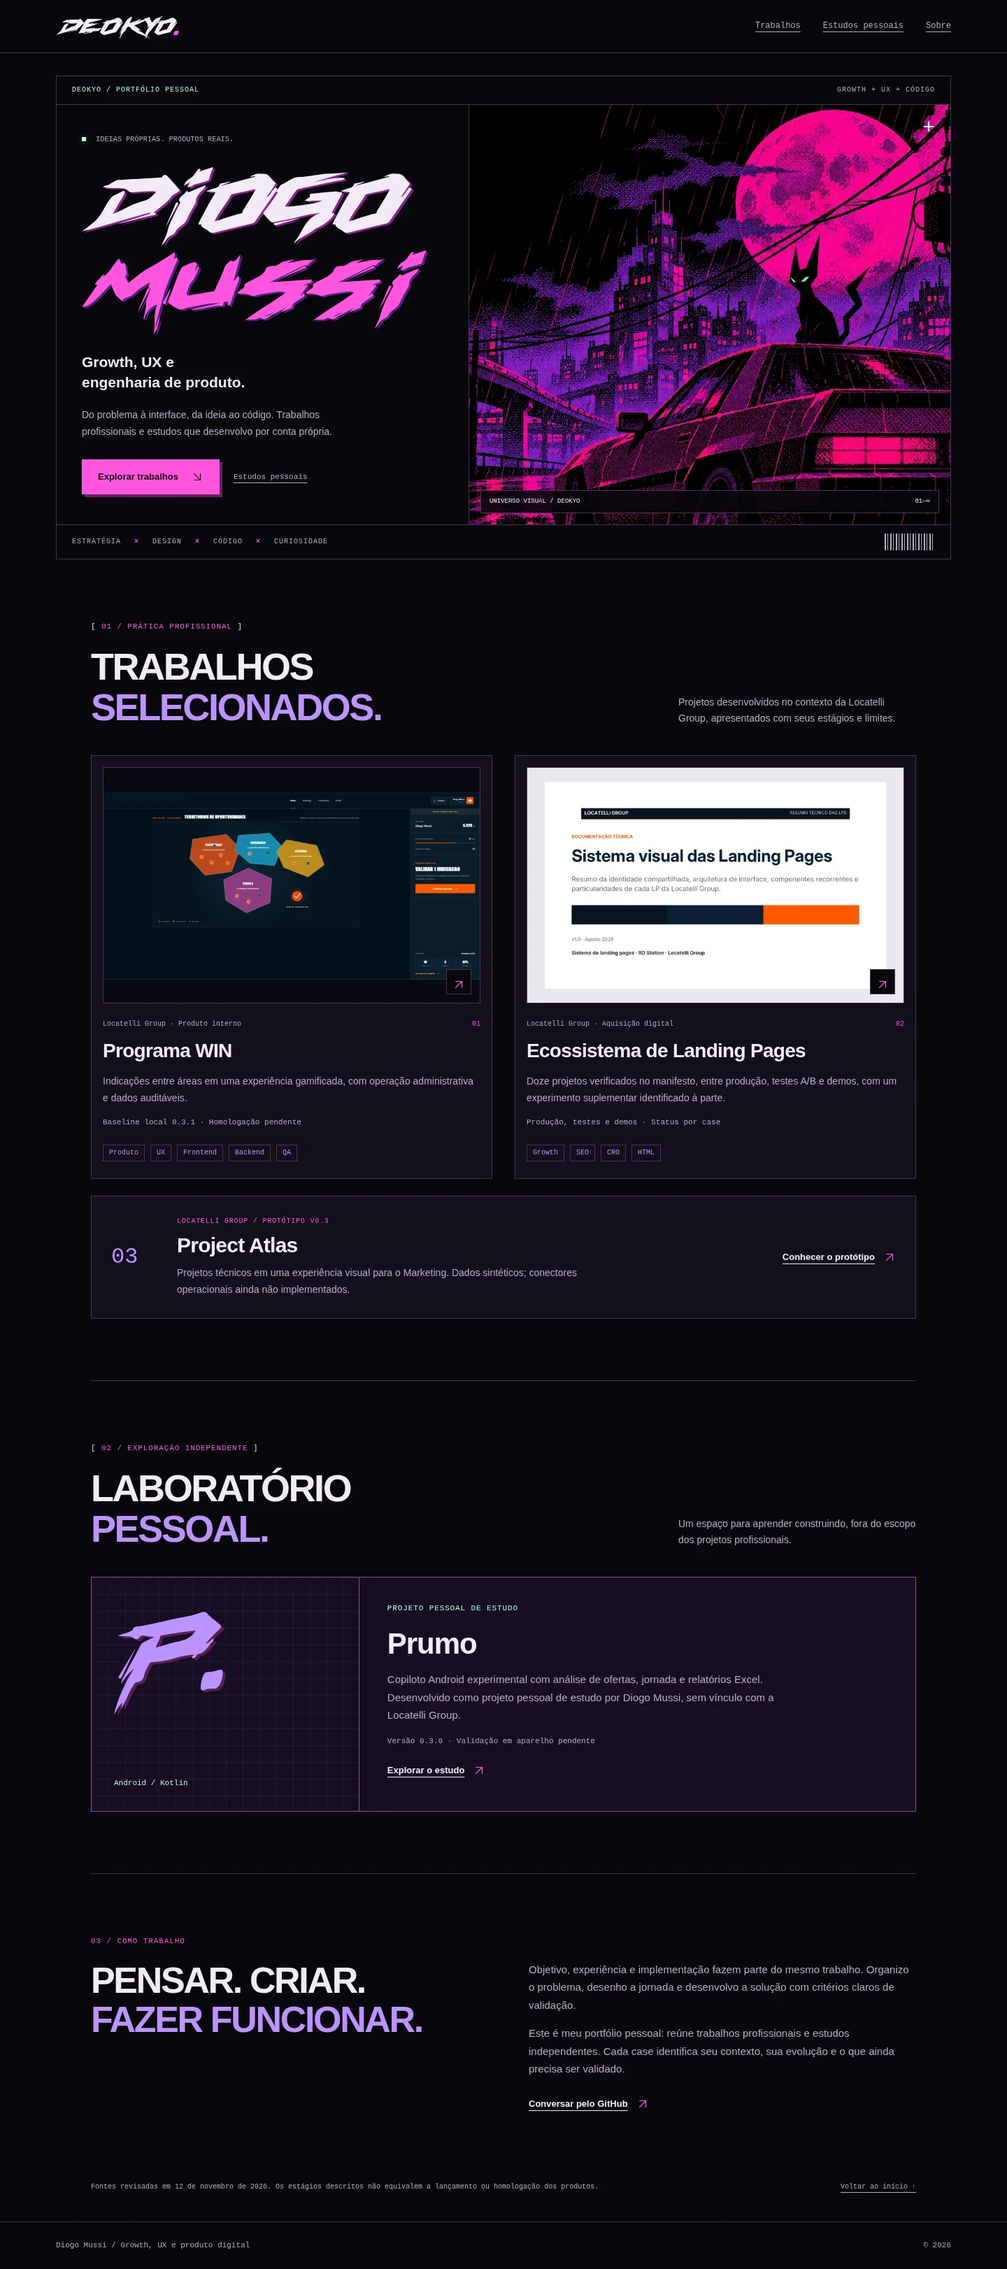
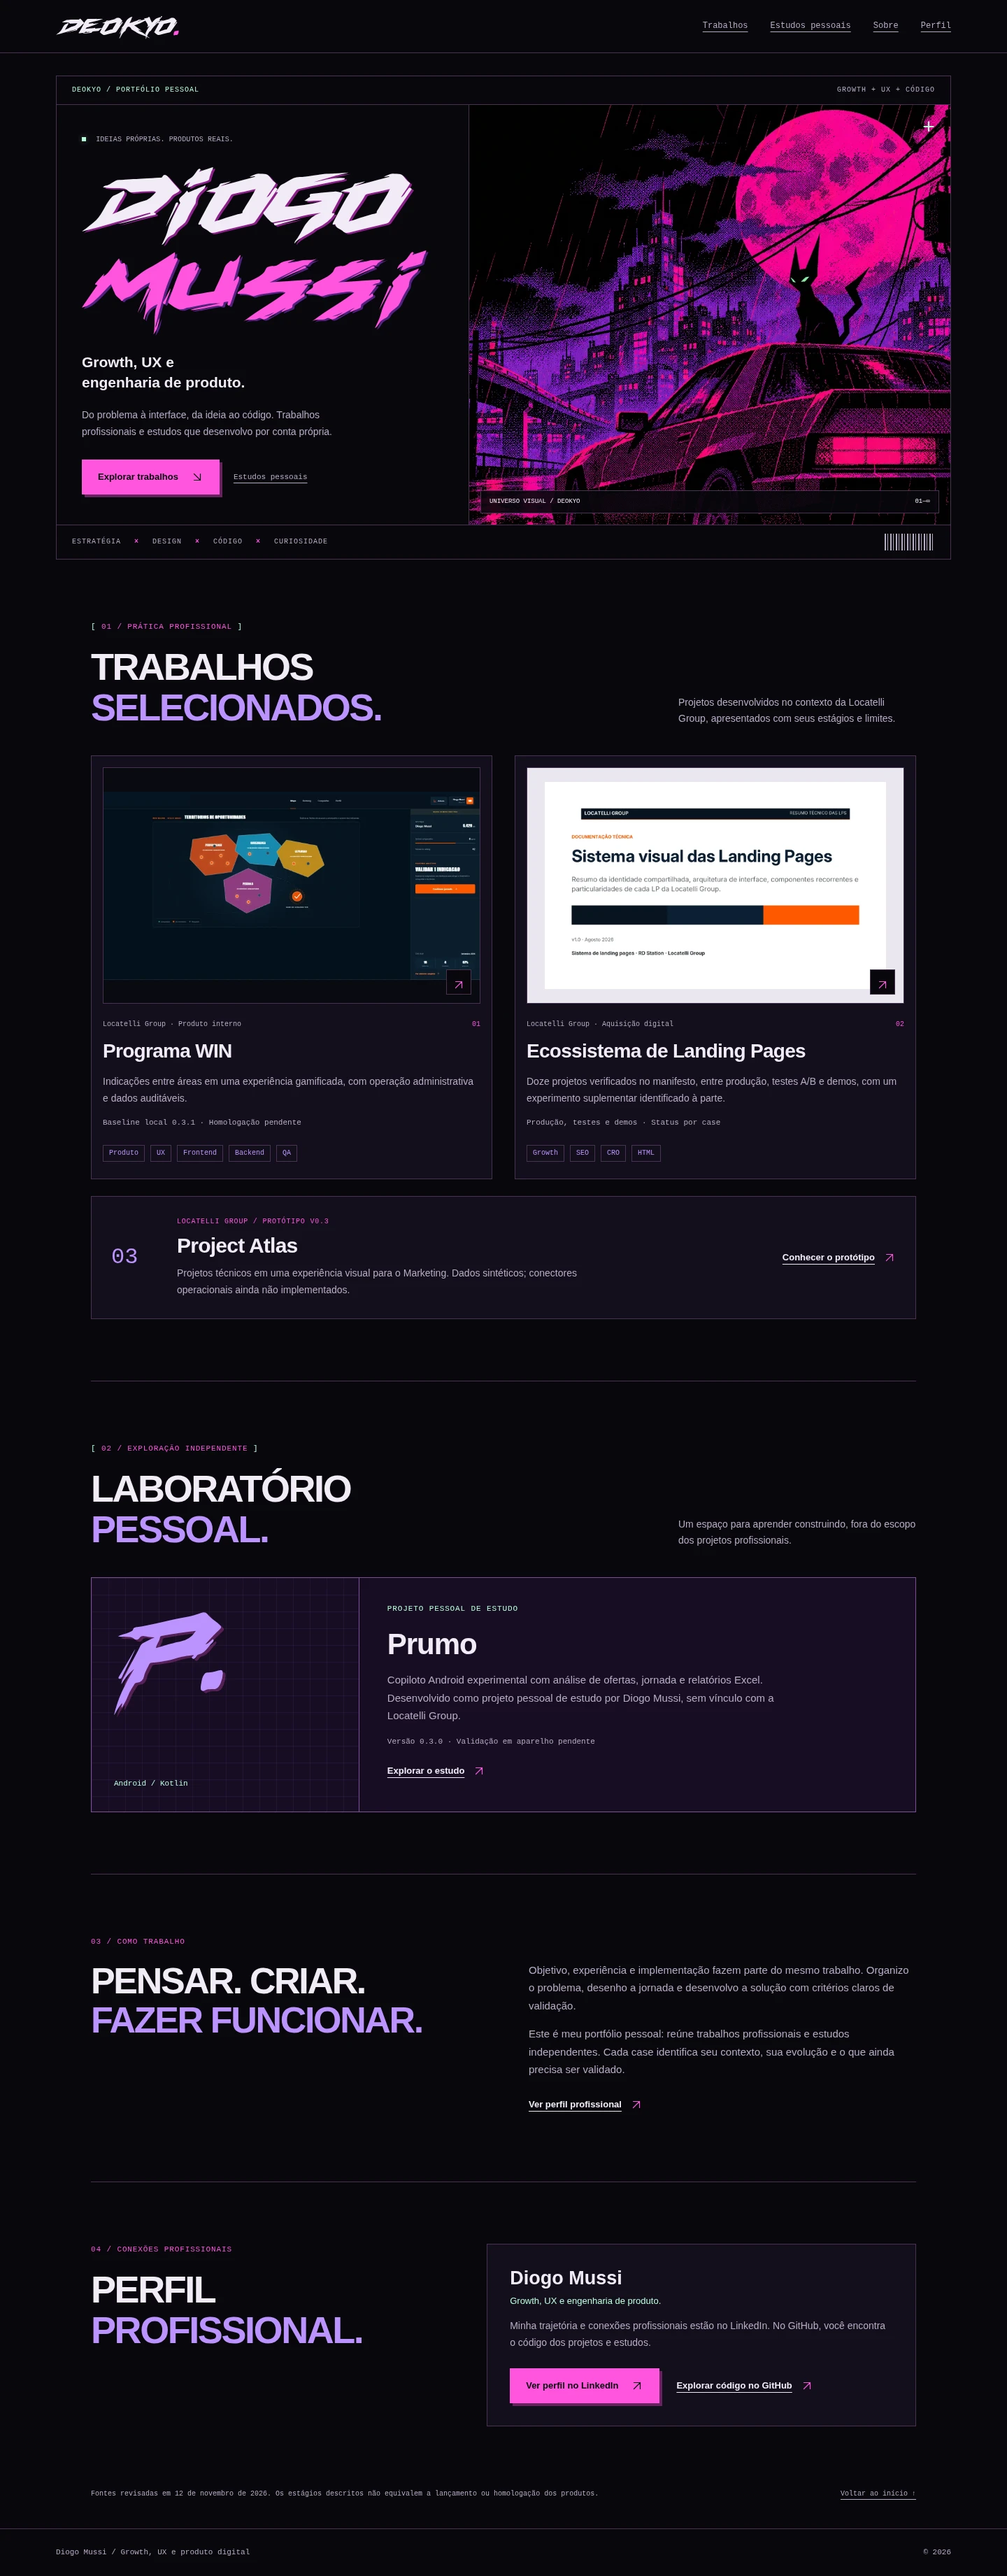
Adiciona perfil profissional com LinkedIn na navegação

diff --git a/index.html b/index.html
@@ -26,6 +26,7 @@
       <a href="#projetos">Trabalhos</a>
       <a href="#estudos">Estudos pessoais</a>
       <a href="#sobre">Sobre</a>
+      <a href="#perfil">Perfil</a>
     </nav>
   </header>
 
@@ -105,7 +106,24 @@
       <p class="eyebrow">03 / Como trabalho</p>
       <div class="about-grid">
         <h2 id="about-title">Pensar. Criar.<br><em>Fazer funcionar.</em></h2>
-        <div><p>Objetivo, experiência e implementação fazem parte do mesmo trabalho. Organizo o problema, desenho a jornada e desenvolvo a solução com critérios claros de validação.</p><p>Este é meu portfólio pessoal: reúne trabalhos profissionais e estudos independentes. Cada case identifica seu contexto, sua evolução e o que ainda precisa ser validado.</p><a class="text-link" href="https://github.com/Deokyo" target="_blank" rel="noopener noreferrer">Conversar pelo GitHub</a></div>
+        <div><p>Objetivo, experiência e implementação fazem parte do mesmo trabalho. Organizo o problema, desenho a jornada e desenvolvo a solução com critérios claros de validação.</p><p>Este é meu portfólio pessoal: reúne trabalhos profissionais e estudos independentes. Cada case identifica seu contexto, sua evolução e o que ainda precisa ser validado.</p><a class="text-link" href="#perfil">Ver perfil profissional</a></div>
+      </div>
+    </section>
+    <section class="section profile-section" id="perfil" aria-labelledby="profile-title">
+      <div class="profile-grid">
+        <div>
+          <p class="eyebrow">04 / Conexões profissionais</p>
+          <h2 id="profile-title">Perfil<br><em>profissional.</em></h2>
+        </div>
+        <div class="profile-card">
+          <p class="profile-name">Diogo Mussi</p>
+          <p class="profile-role">Growth, UX e engenharia de produto.</p>
+          <p>Minha trajetória e conexões profissionais estão no LinkedIn. No GitHub, você encontra o código dos projetos e estudos.</p>
+          <div class="profile-actions">
+            <a class="button button-primary" href="https://www.linkedin.com/in/diogomussi/" target="_blank" rel="noopener noreferrer" aria-label="Ver perfil no LinkedIn (abre em nova aba)">Ver perfil no LinkedIn <span class="external-icon" aria-hidden="true"></span></a>
+            <a class="text-link" href="https://github.com/Deokyo" target="_blank" rel="noopener noreferrer" aria-label="Explorar código no GitHub (abre em nova aba)">Explorar código no GitHub</a>
+          </div>
+        </div>
       </div>
     </section>
     <div class="review-note"><p>Fontes revisadas em <time datetime="2026-11-12">12 de novembro de 2026</time>. Os estágios descritos não equivalem a lançamento ou homologação dos produtos.</p><a href="#home-title">Voltar ao início ↑</a></div>

diff --git a/assets/styles.css b/assets/styles.css
@@ -135,6 +135,24 @@ p { margin-top: 0; }
 .site-footer { display: flex; justify-content: space-between; gap: 24px; padding: 24px max(24px, calc((100vw - 1280px) / 2)); border-top: 1px solid var(--line); color: var(--muted); font: 11px/1.7 var(--mono); }
 .site-footer p { margin: 0; }
 
+/* Professional profile is a direct link; no external embed or third-party script. */
+.profile-section { border-top: 1px solid var(--line); }
+.profile-grid { display: grid; grid-template-columns: .9fr 1.1fr; gap: 64px; align-items: start; }
+.profile-section h2 { text-transform: uppercase; }
+.profile-card { padding: 32px; border: 1px solid var(--line); background: var(--panel); min-width: 0; }
+.profile-name { margin-bottom: 6px; color: var(--ink); font-size: 27px; font-weight: 700; line-height: 1.2; }
+.profile-role { color: var(--mint); font-size: 13px; }
+.profile-card > p:last-of-type { color: var(--muted); font-size: 14px; }
+.profile-actions { display: flex; flex-wrap: wrap; align-items: center; gap: 18px 24px; margin-top: 24px; }
+.external-icon { display: inline-block; width: 18px; height: 18px; background: currentColor; mask: url("images/arrow-up-right.svg") center / contain no-repeat; }
+@media (max-width: 760px) {
+  .profile-grid { grid-template-columns: 1fr; gap: 20px; }
+  .profile-card { padding: 24px; }
+}
+@media (max-width: 380px) {
+  .profile-actions .button { width: 100%; padding-inline: 14px; gap: 10px; font-size: 12px; }
+}
+
 /* The shared case shell: restrained backgrounds and comfortable long-form reading. */
 .case-hero, .lp-case-hero { position: relative; background: var(--panel); border-bottom: 1px solid var(--line); }
 .case-hero::after, .lp-case-hero::after { content: ""; position: absolute; inset: 0 auto 0 0; width: 4px; background: var(--accent); }
